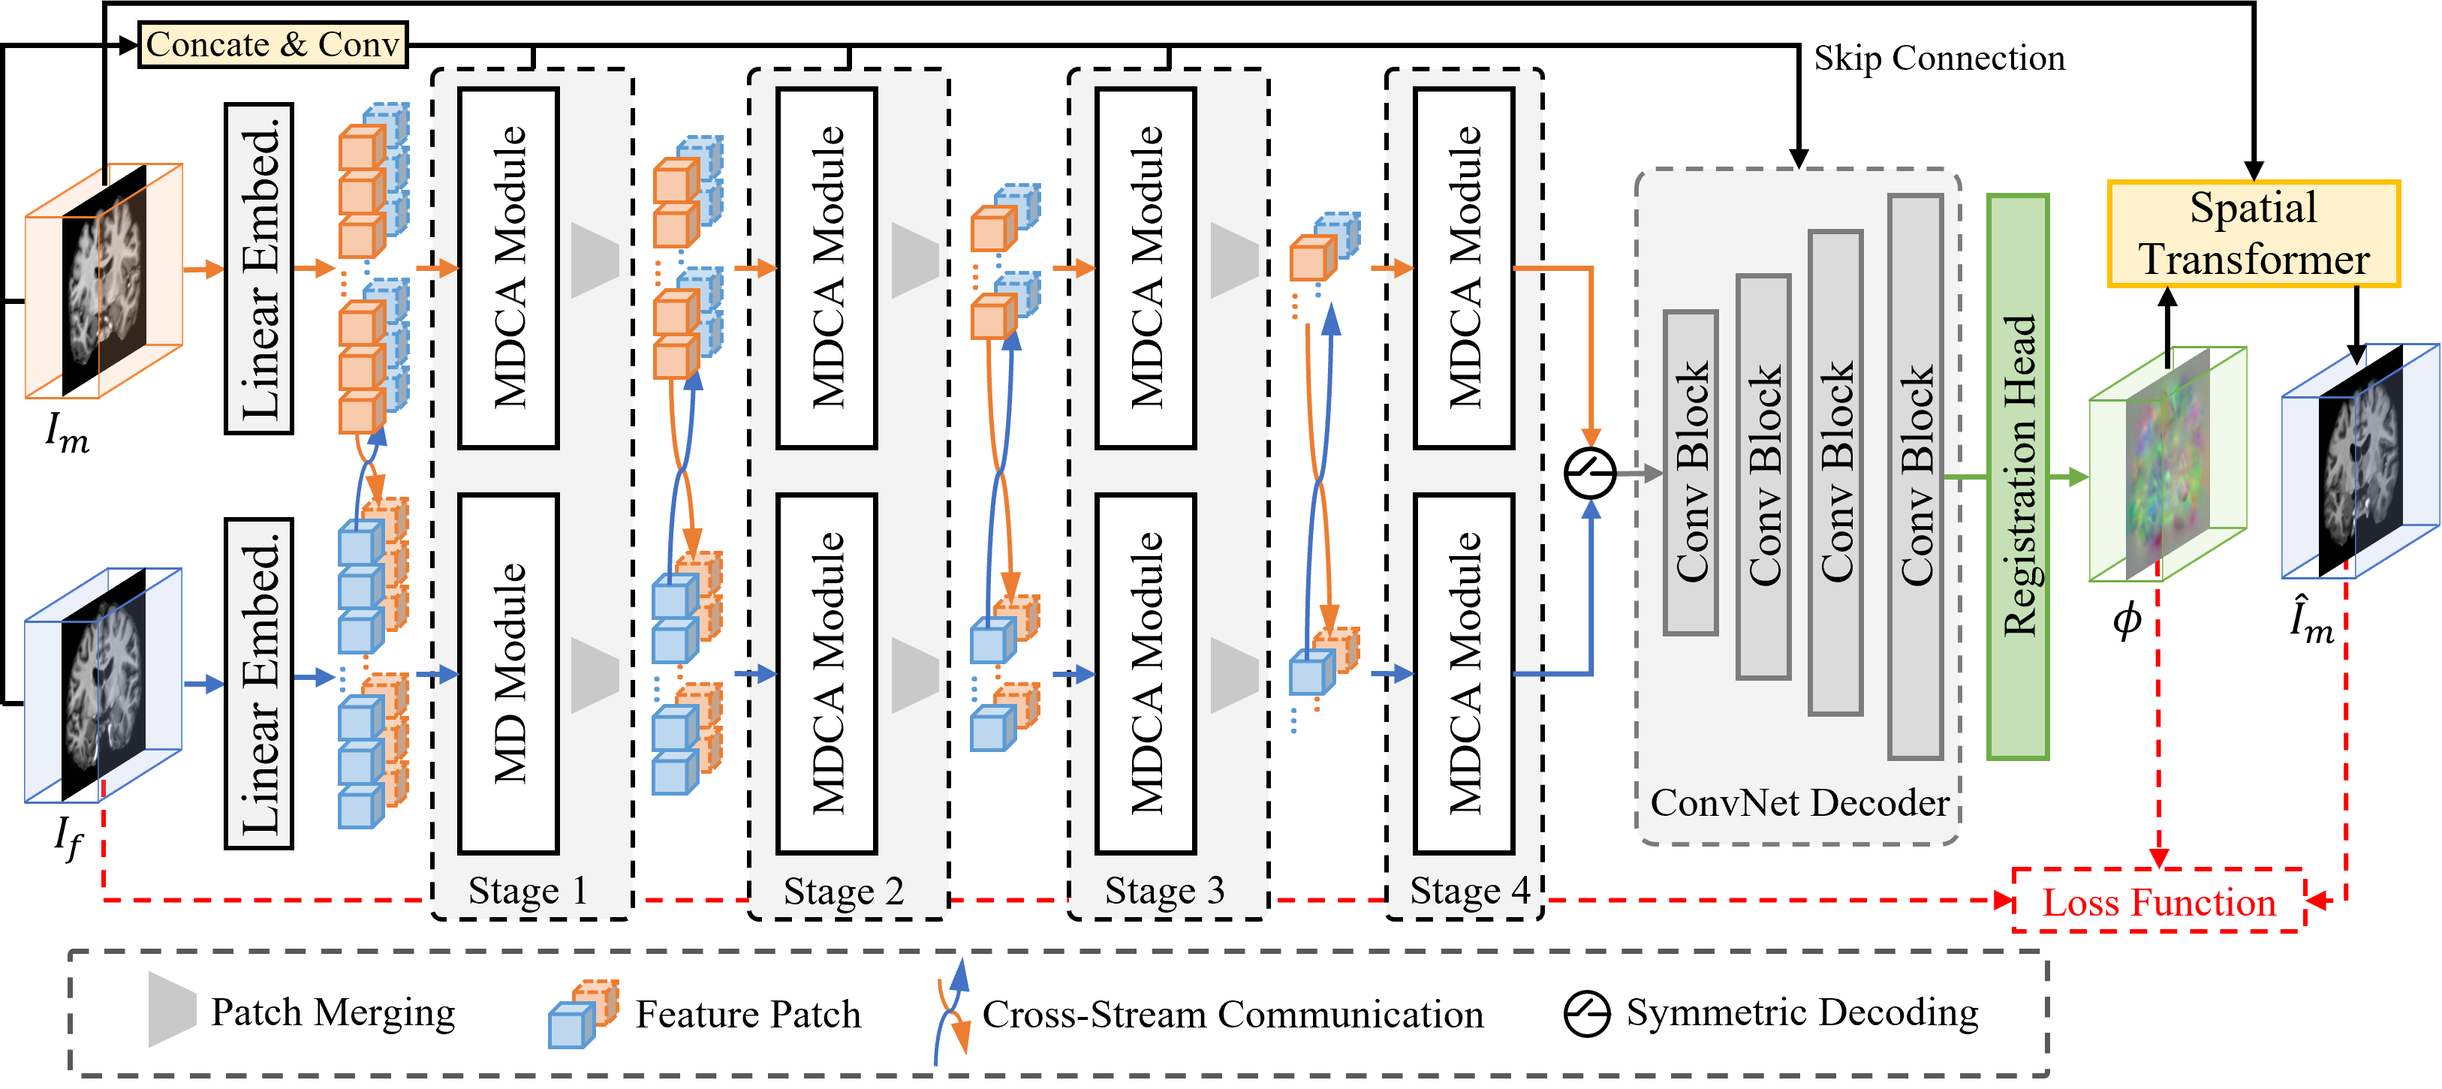
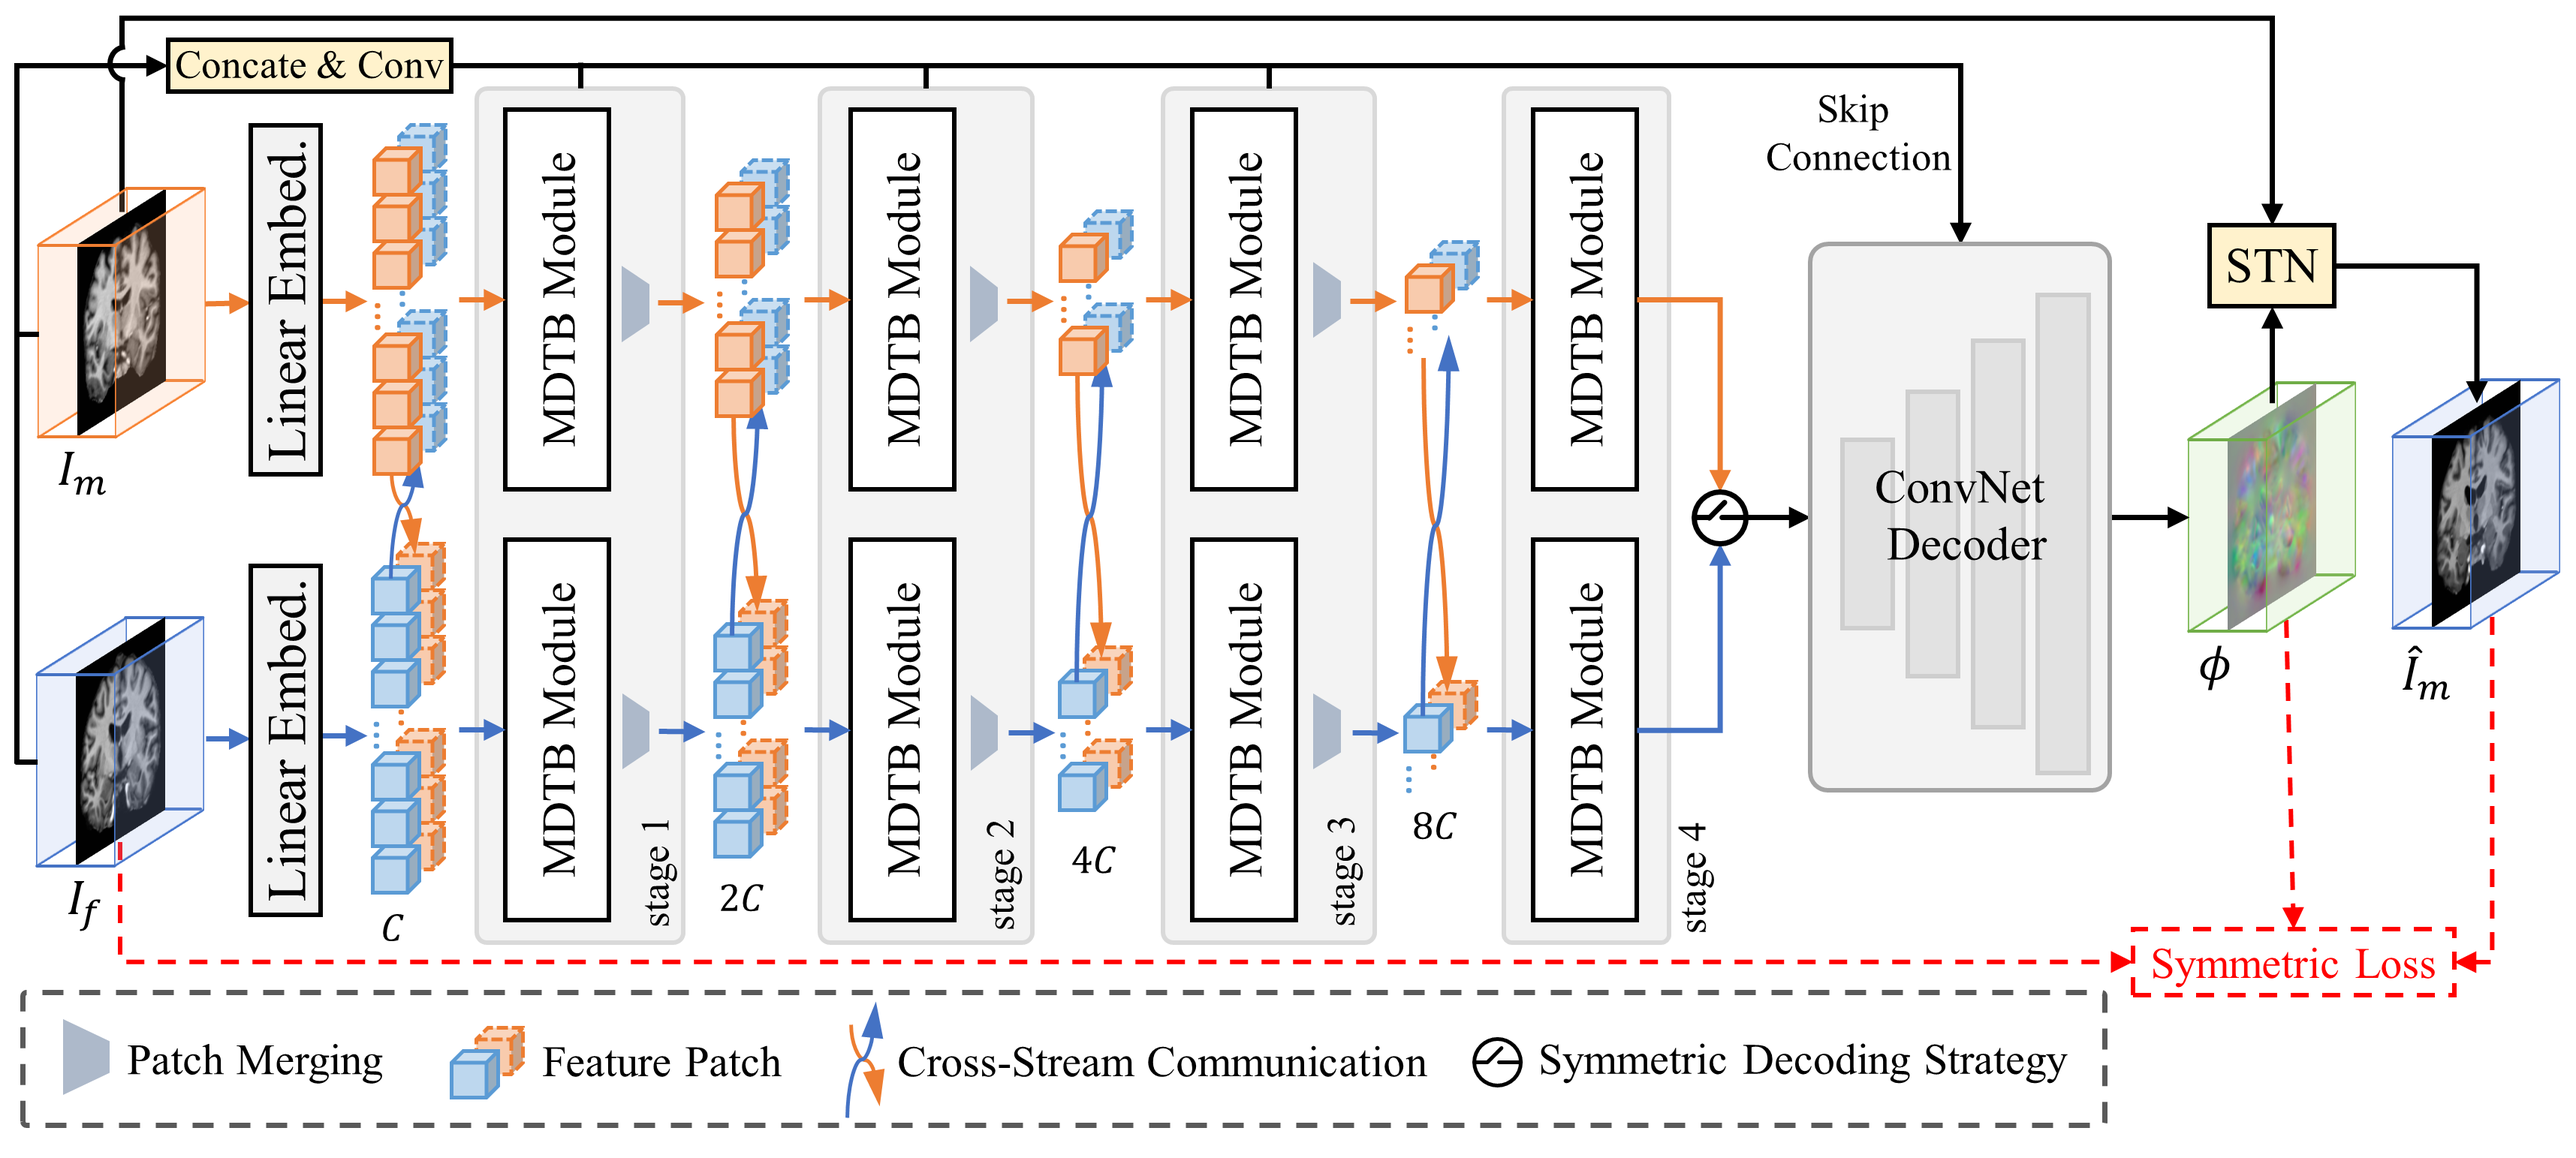
update readme and figures

Changed region(s): [[0.0, 0.0, 1.0, 0.9924]]

diff --git a/README.md b/README.md
@@ -1,11 +1,15 @@
 # DilateMorph: A Dual-Stream Transformer with Multi-Dilation Cross-Attention for Medical Image Registration
 
- <img src="docs/imgs/dilatemorph.png" width = "800"  align=center />
+ <img src="docs/imgs/dilatemorph.png" width = "800"  align=center />  
+ 
+ </br>
+
+ <img src="docs/imgs/dilatemorph_mdca.png" width = "800"  align=center />
 
 
 ## Installation
 
-1. Follow the [official guide](https://pytorch.org/get-started/locally/) to install PyTorch.
+1. Follow the [official guide](https://pytorch.org/get-started/previous-versions/) to install PyTorch 2.1.2.
 2. Install MMIPT
    ```bash
    pip install -r requirements.txt
@@ -15,10 +19,7 @@
 
 ## Quick Start
 
-<details>
-<summary>Train Instructions</summary>
-
-You can use the following commands to train a model with cpu or single/multiple GPUs.
+Train Instructions
 
 ```shell
 # cpu train
@@ -28,12 +29,8 @@ CUDA_VISIBLE_DEVICES=-1 python tools/train.py configs/registration/transmorph/tr
 python tools/train.py configs/registration/transmorph/transmorph_ixi_atlas-to-scan_160x192x224.py
 
 ```
-</details>
 
-<details>
-<summary>Test Instructions</summary>
-
-You can use the following commands to test a model with cpu or single/multiple GPUs.
+Test Instructions
 
 ```shell
 # cpu test
@@ -43,7 +40,6 @@ CUDA_VISIBLE_DEVICES=-1 python tools/test.py configs/registration/transmorph/tra
 python tools/test.py configs/registration/transmorph/transmorph_ixi_atlas-to-scan_160x192x224.py path/to/checkpoint.pth
 
 ```
-</details>
 
 
 ## Directory structure
@@ -88,9 +84,9 @@ python tools/test.py configs/registration/transmorph/transmorph_ixi_atlas-to-sca
 @Article{paper,
   title = {DilateMorph: A Dual-Stream Transformer with Multi-Dilation Cross-Attention for Medical Image Registration},
   author = {},
-  journal = {},
-  volume = {},
-  pages = {},
-  year = {},
 }
 ```
+  <!-- journal = {},
+  volume = {},
+  pages = {},
+  year = {}, -->
